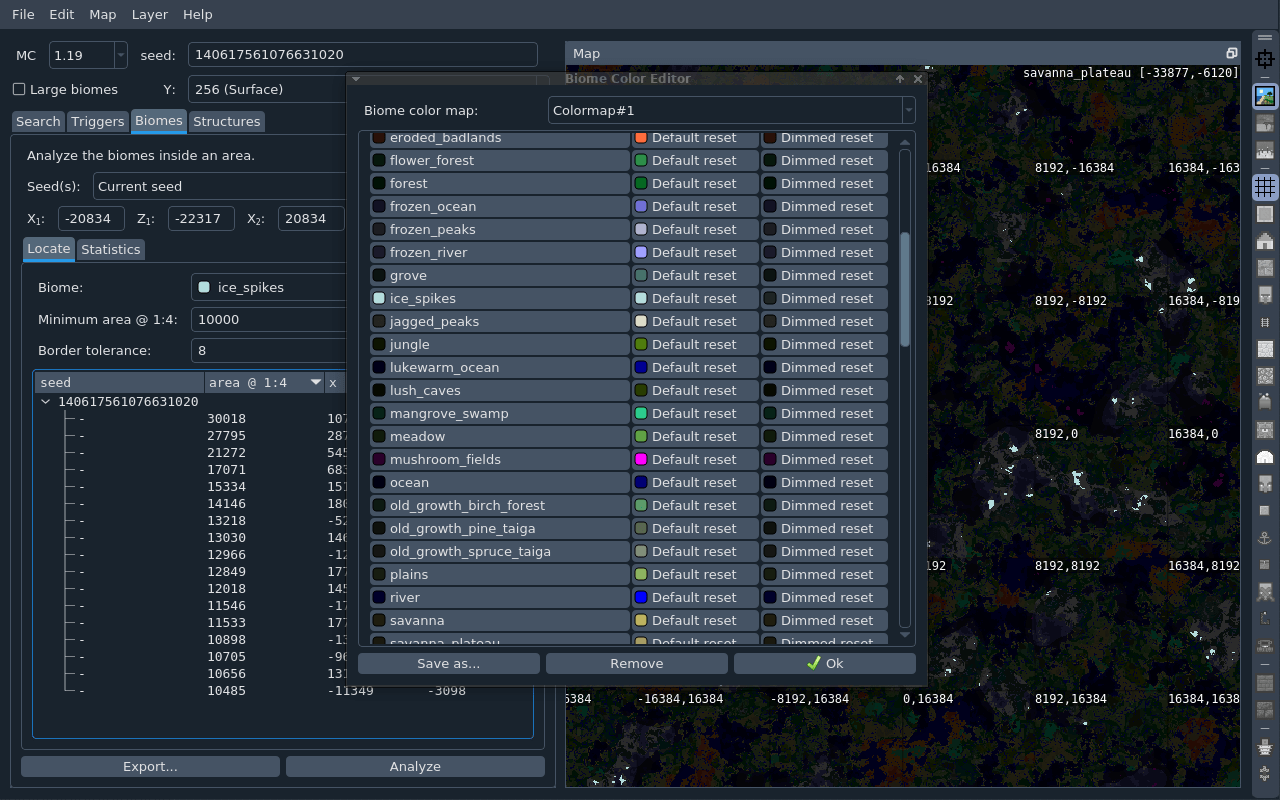
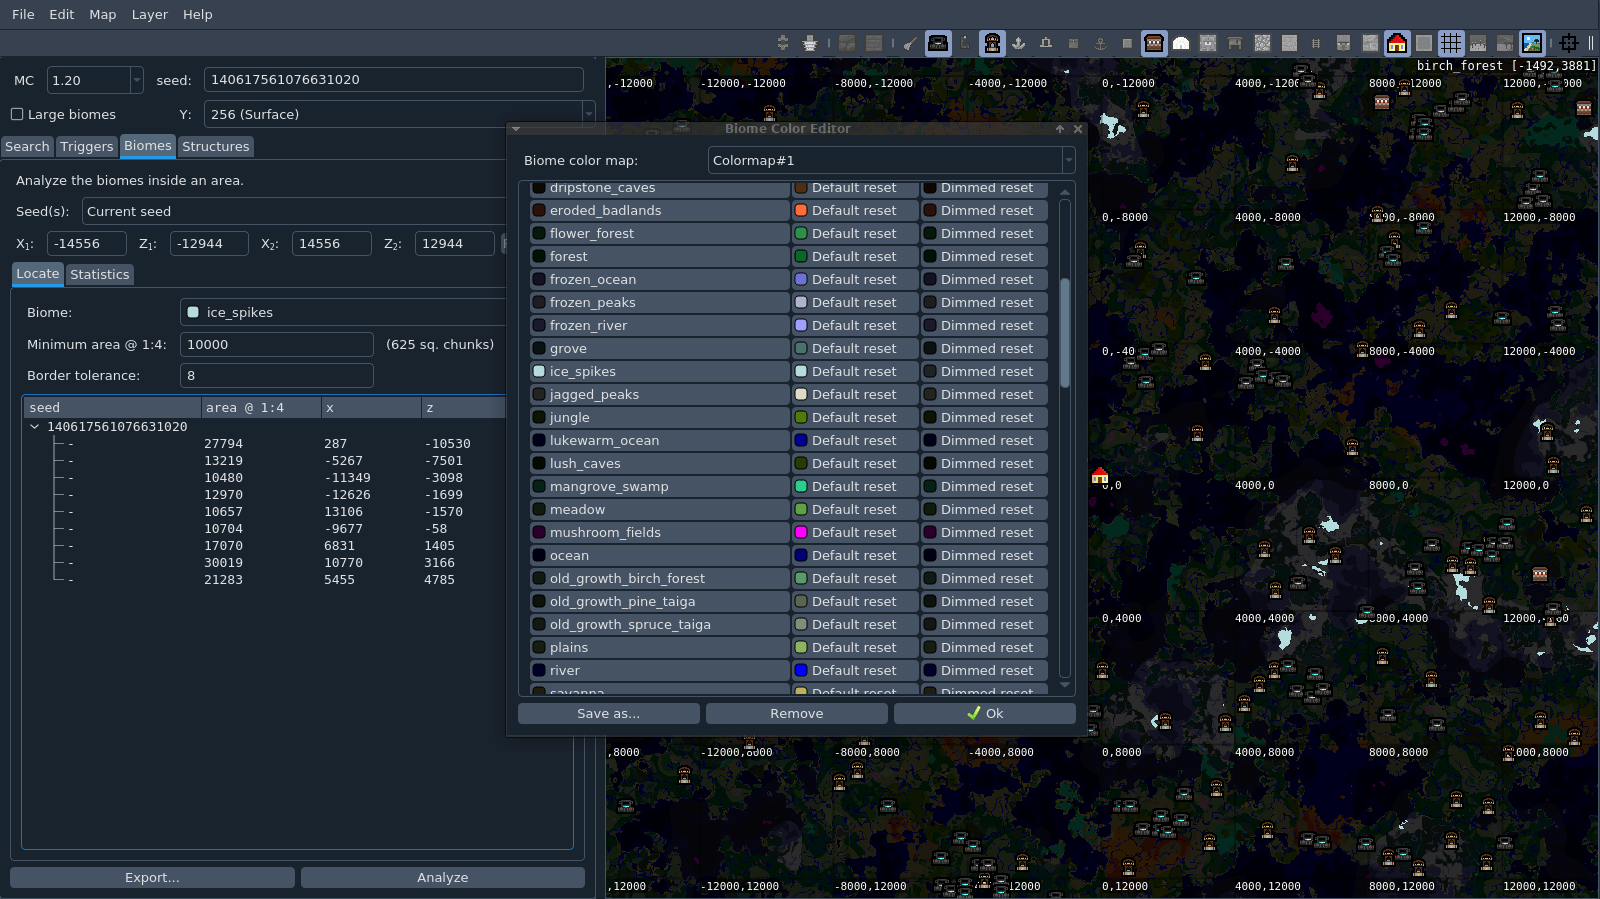
Update screenshots

diff --git a/src/mainwindow.cpp b/src/mainwindow.cpp
@@ -304,7 +304,7 @@ QAction *MainWindow::addMapAction(int sopt, const char *iconpath, QString tip)
     QIcon icon;
     QString inam = QString(":icons/") + iconpath;
     QPixmap pix_on = QPixmap(inam + ".png");
-    QPixmap pix_off = QPixmap(inam + ".png");
+    QPixmap pix_off = QPixmap(inam + "_d.png");
     if (pix_on.size().width() > 20)
     {
         pix_on = pix_on.scaledToWidth(20);

diff --git a/README.md b/README.md
@@ -5,7 +5,7 @@ seed-finding utilities provided by [cubiomes](https://github.com/Cubitect/cubiom
 and a map viewer for the Minecraft biomes and structure generation.
 
 The tool is designed for high performance and supports Minecraft Java Edition
-main releases up to 1.19.
+main releases up to 1.20.
 
 
 ## Download
@@ -59,7 +59,7 @@ area.
 
 ## Screenshots
 
-Screenshots were taken of Cubiomes-Viewer v3.0.
+Screenshots were taken of Cubiomes-Viewer v3.3.
 
 ![maingui](etc/screenshot_maingui-fs8.png
 "Searching for a quad-hut near a stronghold with a good biome variety")
